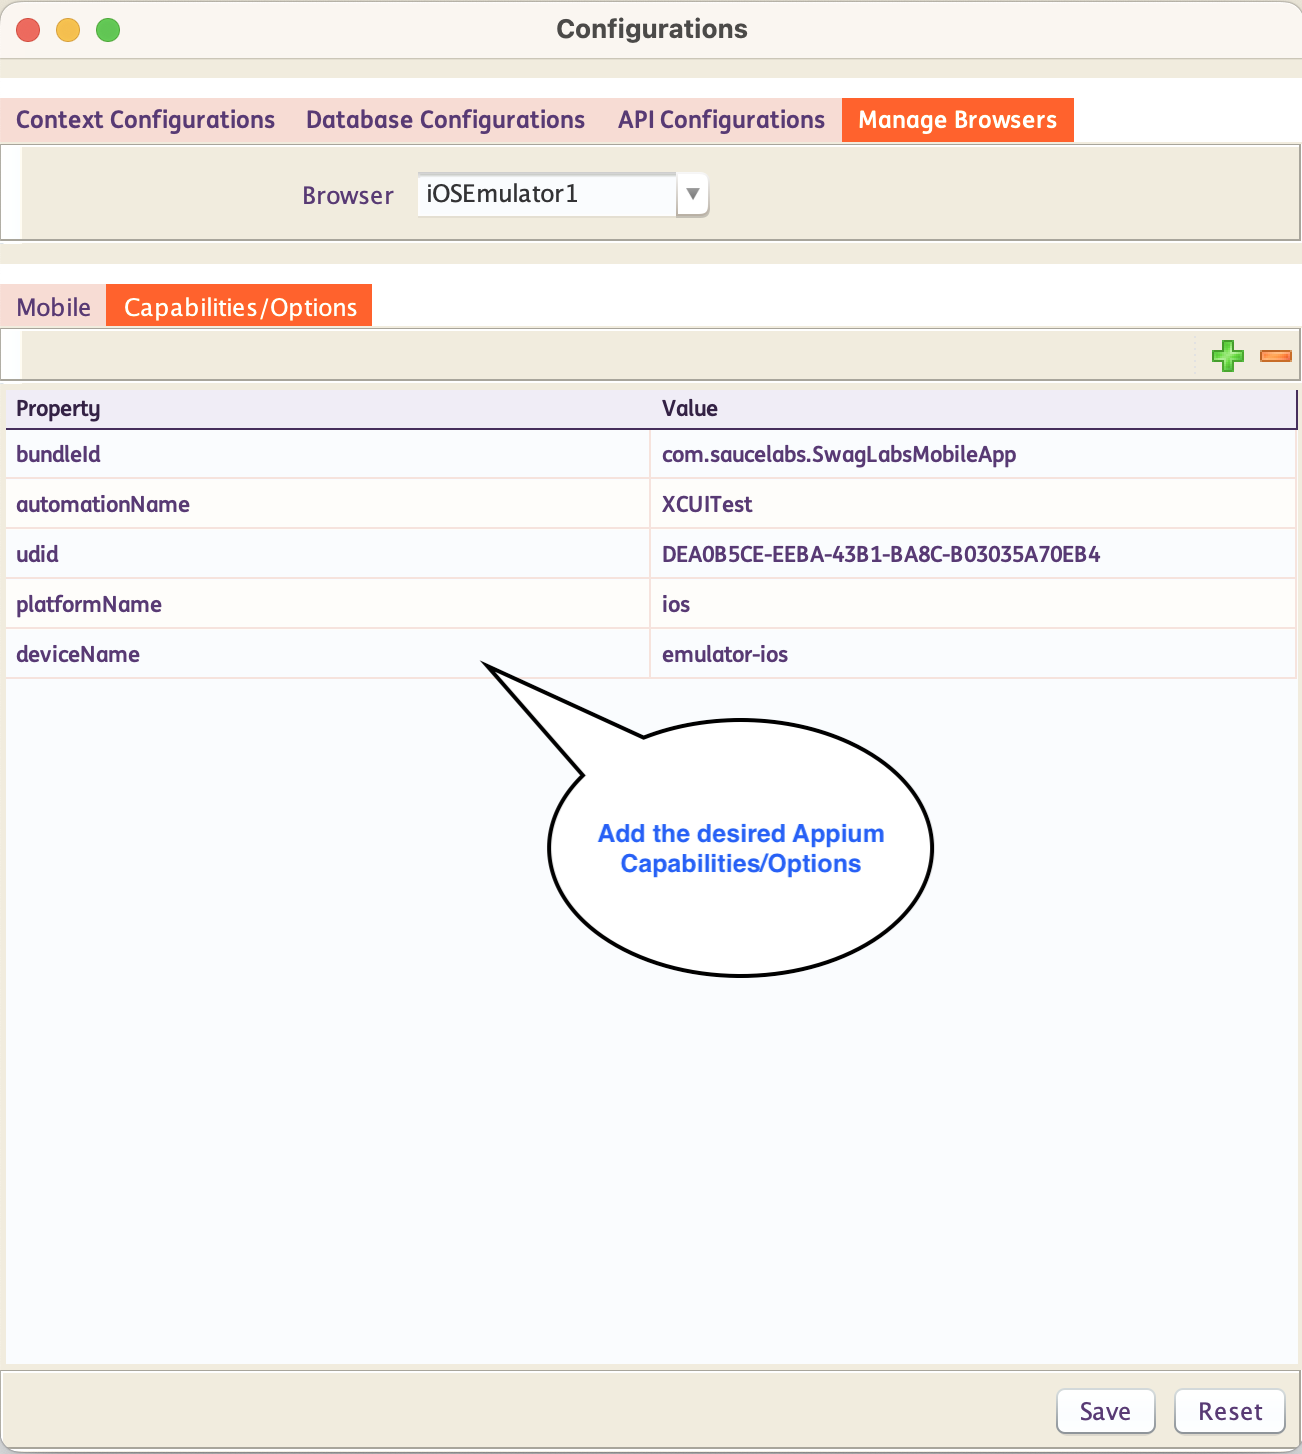
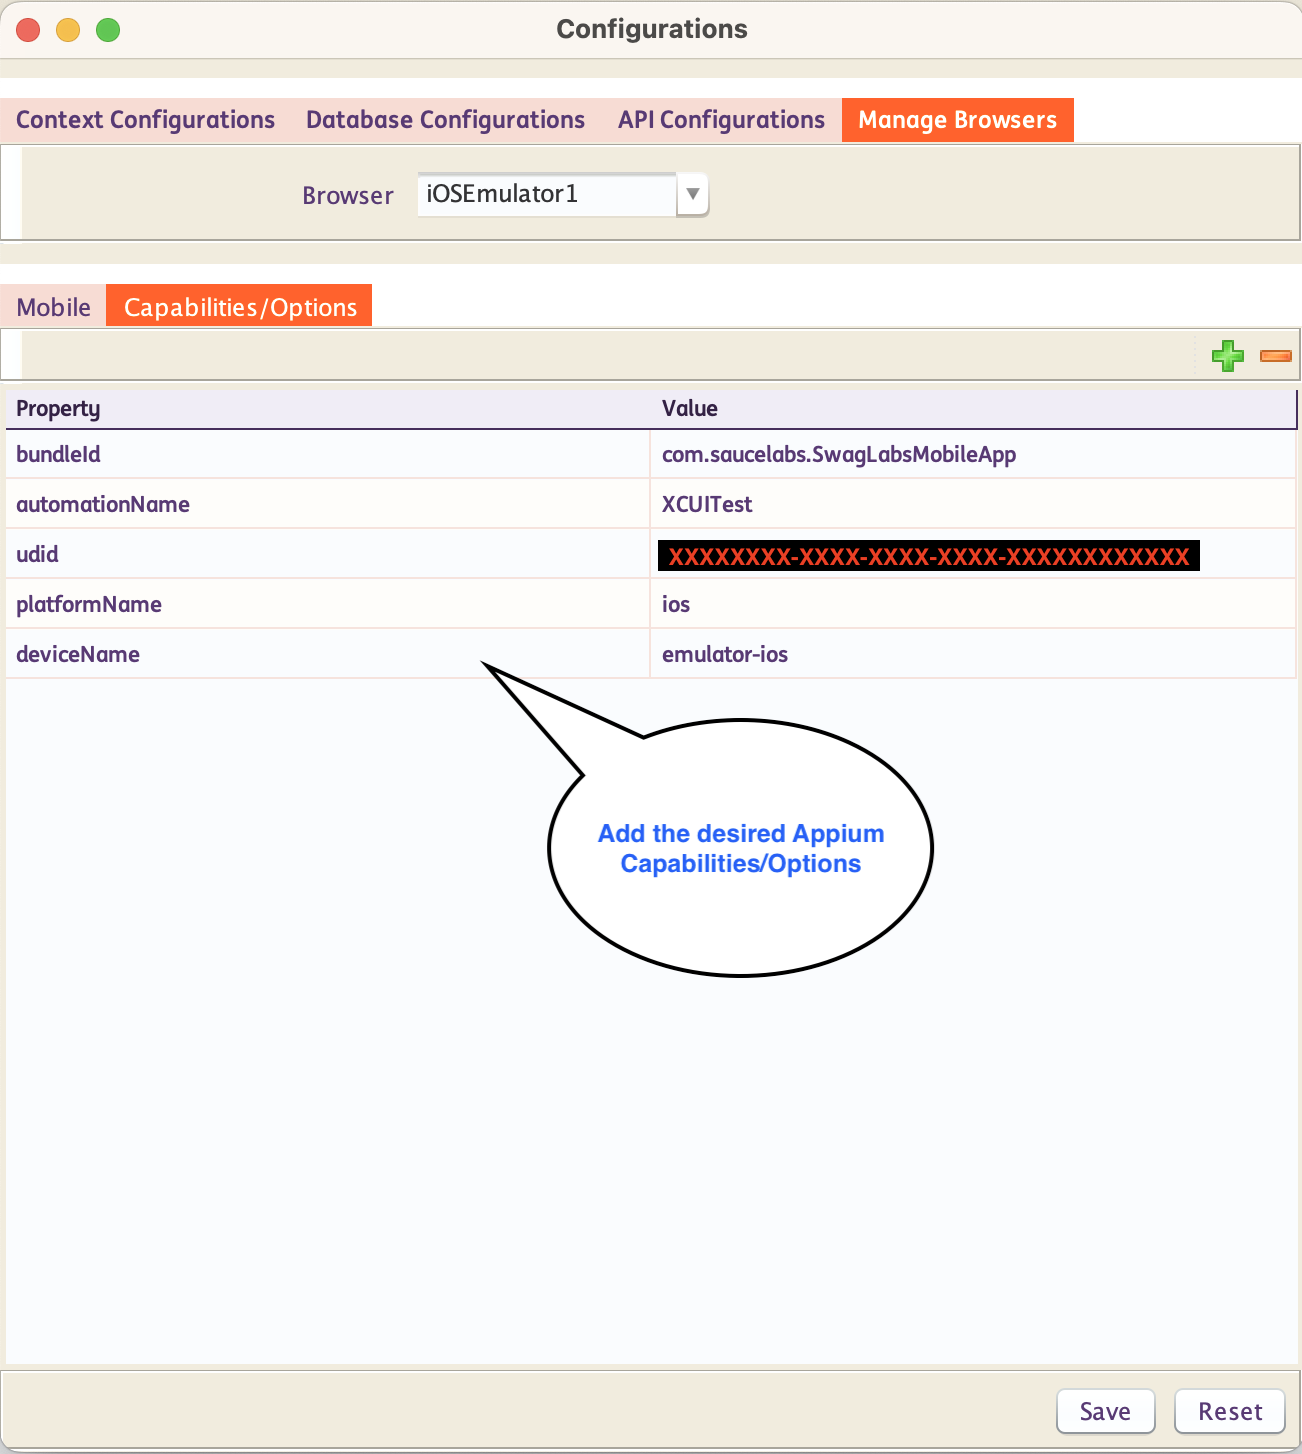
update

Changed region(s): [[0.4916, 0.3714, 0.9217, 0.4023]]

diff --git a/docs/mobiletesting/emulatorsetup.md b/docs/mobiletesting/emulatorsetup.md
@@ -8,11 +8,17 @@ Follow the steps below to create an Appium configuration in INGenious.
 
 * Inside the **Manage Browser** tab, Enter the name of the **Appium Configuation** you want to create, in the `Browser` textbox and hit ++enter++ 
 
-* Inside the **Mobile Tab**, you can set yout **Remote URL/Appium** from the textbox 
+* Inside the **Mobile Tab**, you can set your **Remote URL/Appium** from the textbox. By default, it is set to `http://127.0.0.1:4723/`
+
+     ![createConfig](../img/mobiletesting/sampleRemoteURL.jpeg "remoteurl"){ width=50% }
 
 * Inside the **Capabilities/Options Tab**, you can set your **Appium Capabilities/Options**
 
+     ![createConfig](../img/mobiletesting/sampleCapabilities.jpeg "createConfig"){ width=50% }
+
 * By default, `automationName`, `deviceName`, `platformName` and `platformVersion` are the required key-value pairs for **Appium configurations** when creating new emulators. Additional Appium configurations can be included as needed.
+
+> **Note:** Make sure you have already tested your configurations from Appium Inspector. See section [Appium Inspector](appiuminspector.md) for more details.  
 
 === "Sample Android Emulator Configurations"
 
@@ -59,16 +65,13 @@ Follow the steps below to create an Appium configuration in INGenious.
 
     ```json
           {
-               "appium:udui": "XXXXXXXX-XXXX-XXXX-XXXX-XXXXXXXXXXXX",
+               "appium:udid": "XXXXXXXX-XXXX-XXXX-XXXX-XXXXXXXXXXXX",
                "appium:bundleId": "com.saucelabs.SwagLabsMobileApp",
                "appium:automationName": "XCUITest",
                "platformName": "iOS",
-               "appium:deviceName": "iPhone 13 Pro Max",
-               "appium:platformVersion": "18.6"
+               "appium:deviceName": "emulator-ios"
           }
     ```
-
-> **Note:** Make sure you have already tested your configurations from Appium Inspector. See section [Appium Inspector](appiuminspector.md) for more details.  
 
 ---------------------------     
 
